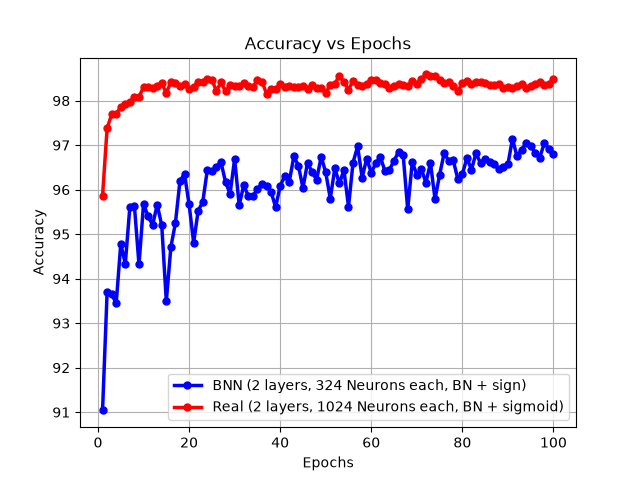
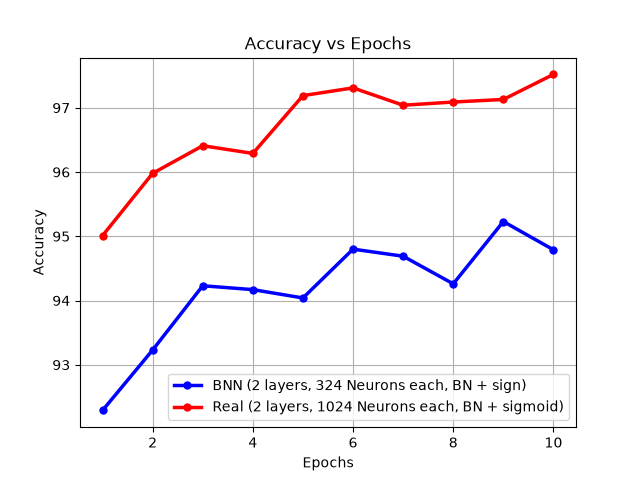
Add testing dataset loading and update training parameters; implement batch normalization in new PyTorch models

diff --git a/Real_weighted_model_pytorch.py b/Real_weighted_model_pytorch.py
@@ -1,0 +1,152 @@
+import numpy as np
+import torch
+
+# torch.set_grad_enabled(False)
+device = "cuda" if torch.cuda.is_available() else "cpu"
+
+def sigmoid(z):
+    return torch.sigmoid(z)
+
+def derivative_sigmoid(z):
+    return sigmoid(z) * (1 - sigmoid(z))
+
+def softmax(z):
+    exp_z = torch.exp(z - torch.max(z, dim=0, keepdim=True)[0])  # for numerical stability
+    return exp_z / torch.sum(exp_z, dim=0, keepdim=True)
+
+def batchnorm(x, gamma, beta, running_mean, running_var, training=True, momentum=0.9, eps=1e-5):
+    mu = torch.mean(x, dim=1, keepdim=True)
+    var = torch.var(x, dim=1, keepdim=True, unbiased=False)
+    if training:
+        x_hat = (x - mu) / torch.sqrt(var + eps)
+        running_mean = momentum * running_mean + (1 - momentum) * mu
+        running_var = momentum * running_var + (1 - momentum) * var
+    else:
+        x_hat = (x - running_mean) / torch.sqrt(running_var + eps)
+    cache = (x_hat, gamma, beta, mu, var, eps)
+    return gamma * x_hat + beta, cache, running_mean, running_var
+
+d, n, k = 784, 1024, 10
+layer_sizes = [d, n, n, k]
+L = len(layer_sizes) - 1
+B = 128
+weights, biases = [], []
+for i in range(L):
+    weights.append(torch.randn(layer_sizes[i], layer_sizes[i+1], device=device) / np.sqrt(layer_sizes[i]))
+    biases.append(torch.randn(layer_sizes[i+1], 1, device=device) / np.sqrt(layer_sizes[i]))
+
+# Initialize batch normalization parameters
+gamma = [torch.ones((layer_sizes[i+1], 1), device=device) for i in range(L-1)]
+beta = [torch.zeros((layer_sizes[i+1], 1), device=device) for i in range(L-1)]
+running_means = [torch.zeros((layer_sizes[i+1], 1), device=device) for i in range(L-1)]
+running_vars = [torch.ones((layer_sizes[i+1], 1), device=device) for i in range(L-1)]
+
+def feedforward(W, x, b, gamma, beta, training=True):
+    h = [x]
+    a = []
+    caches = []
+    for i in range(L):
+        a.append(W[i].T @ h[-1] + b[i])
+        if i == L - 1:
+            h.append(softmax(a[-1]))
+        else:
+            h_i, cache, running_means[i], running_vars[i] = batchnorm(a[-1], gamma[i], beta[i], running_means[i], running_vars[i], training)
+            h.append(sigmoid(h_i))
+            caches.append(cache)
+    return h, a, caches
+
+def backpropagation(W, h, y, gamma, beta, caches, eps=1e-5):
+    batch_size = h[0].shape[1]
+    grad_a = [h[-1] - y]
+    grad_W = [(h[-2] @ grad_a[-1].T) / batch_size]
+    grad_b = [torch.mean(grad_a[-1], dim=1, keepdim=True)]
+    grad_gamma = []
+    grad_beta = []
+    for i in range(L-2, -1, -1):
+        G = (W[i+1] @ grad_a[-1]) * h[i+1] * (1 - h[i+1])  
+        Q = G * gamma[i] 
+        cache = caches[i]
+        a_hat = cache[0]
+        var = cache[4]
+        grad_gamma.append(torch.sum(G * a_hat, dim=1, keepdim=True))
+        grad_beta.append(torch.sum(G, dim=1, keepdim=True))
+        grad_a.append((Q - torch.mean(Q, dim=1, keepdim=True) - a_hat * torch.mean(Q * a_hat, dim=1, keepdim=True)) / torch.sqrt(var + eps))
+        grad_W.append((h[i] @ grad_a[-1].T) / batch_size)
+        grad_b.append(torch.mean(grad_a[-1], dim=1, keepdim=True))
+    grad_W.reverse()
+    grad_a.reverse()
+    grad_b.reverse()
+    grad_gamma.reverse()
+    grad_beta.reverse()
+    return grad_W, grad_b, grad_gamma, grad_beta
+
+# # MNIST Dataset
+# data = idx2np.convert_from_file(r'/home/saurav/edward/ML/MNIST/train-images.idx3-ubyte')
+# data = data/255
+# X = torch.tensor(data.reshape(60000,784).T, dtype=torch.float32, device=device)
+# labels = idx2np.convert_from_file(r'/home/saurav/edward/ML/MNIST/train-labels.idx1-ubyte')
+# Y = torch.tensor(np.eye(10)[labels].T, dtype=torch.float32, device=device)
+# torch.save(X, 'train_images.pt')
+# torch.save(Y, 'train_labels.pt')
+X = torch.load('train_images.pt', map_location=device)
+Y = torch.load('train_labels.pt', map_location=device)
+
+# data_t = idx2np.convert_from_file(r'/home/saurav/edward/ML/MNIST/t10k-images.idx3-ubyte')
+# data_t = data_t/255
+# X_t = torch.tensor(data_t.reshape(10000,784).T, dtype=torch.float32, device=device)
+# labels_t = idx2np.convert_from_file(r'/home/saurav/edward/ML/MNIST/t10k-labels.idx1-ubyte')
+# Y_t = torch.tensor(np.eye(10)[labels_t].T, dtype=torch.float32, device=device)
+# torch.save(X_t, 'test_images.pt')
+# torch.save(Y_t, 'test_labels.pt')
+X_t = torch.load('test_images.pt', map_location=device)
+Y_t = torch.load('test_labels.pt', map_location=device)
+
+eta = 0.7
+epochs = 10
+mem = 0.8
+v_W, v_b, v_gamma, v_beta = [torch.zeros_like(W, device=device) for W in weights], [torch.zeros_like(b, device=device) for b in biases], [torch.zeros_like(g, device=device) for g in gamma], [torch.zeros_like(b, device=device) for b in beta]
+accuracy_history = []
+
+for epoch in range(epochs):
+    perm = torch.randperm(X.shape[1], device=device)
+    for start in range(0, X.shape[1], B):
+        end = start + B
+        idx = perm[start:end]
+        lookahead_W = [W - mem * v for W, v in zip(weights, v_W)]
+        lookahead_b = [b - mem * v for b, v in zip(biases, v_b)]
+        lookahead_gamma = [g - mem * v for g, v in zip(gamma, v_gamma)]
+        lookahead_beta = [b - mem * v for b, v in zip(beta, v_beta)]
+        x_batch = X[:,idx]
+        y_batch = Y[:,idx]
+        h, a, caches = feedforward(lookahead_W, x_batch, lookahead_b, lookahead_gamma, lookahead_beta, training=True)
+        
+        grad_W, grad_b, grad_gamma, grad_beta = backpropagation(lookahead_W, h, y_batch, lookahead_gamma, lookahead_beta, caches)
+        for i in range(L):
+            v_W[i] = mem * v_W[i] + eta * grad_W[i]
+            v_b[i] = mem * v_b[i] + eta * grad_b[i]
+            weights[i] -= v_W[i]
+            biases[i] -= v_b[i]
+            if i < L-1:
+                v_gamma[i] = mem * v_gamma[i] + eta * grad_gamma[i]
+                v_beta[i] = mem * v_beta[i] + eta * grad_beta[i]
+                gamma[i] -= v_gamma[i]
+                beta[i] -= v_beta[i]
+
+    # output = feedforward(weights, X, biases, gamma, beta, training=False)[0][-1]
+    # pred = np.argmax(output, axis=0)
+    # true = np.argmax(Y, axis=0)
+    # accuracy_train = np.mean(pred == true)
+
+    output = feedforward(weights, X_t, biases, gamma, beta, training=False)[0][-1]
+    pred = torch.argmax(output, dim=0)
+    true = torch.argmax(Y_t, dim=0)
+    accuracy_test = (pred == true).float().mean().item()
+    accuracy_history.append(accuracy_test)
+
+    print(
+        f'Epochs:{epoch+1}/{epochs} | '
+        f'Testing Accuracy: {accuracy_test * 100:.4f}')
+    #     f'Training Accuracy: {accuracy_train * 100:.4f}'
+    # )
+
+np.save("Real_weighted_model_accuracy.npy", np.array(accuracy_history))

diff --git a/BNN_pytorch.py b/BNN_pytorch.py
@@ -1,0 +1,149 @@
+import numpy as np
+import torch
+
+device = "cuda" if torch.cuda.is_available() else "cpu"
+
+def sigmoid(z):
+    return torch.sigmoid(z)
+
+def derivative_sigmoid(z):
+    return sigmoid(z) * (1 - sigmoid(z))
+
+def softmax(z):
+    exp_z = torch.exp(z - torch.max(z, dim=0, keepdim=True)[0])  # for numerical stability
+    return exp_z / torch.sum(exp_z, dim=0, keepdim=True)
+
+def binarize(x):
+    return torch.where(x >= 0, torch.ones_like(x), -torch.ones_like(x))
+
+def batchnorm(x, gamma, beta, running_mean, running_var, training=True, momentum=0.9, eps=1e-5):
+    mu = torch.mean(x, dim=1, keepdim=True)
+    var = torch.var(x, dim=1, keepdim=True, unbiased=False)
+    if training:
+        x_hat = (x - mu) / torch.sqrt(var + eps)
+        # Update running statistics
+        running_mean = momentum * running_mean + (1 - momentum) * mu
+        running_var = momentum * running_var + (1 - momentum) * var
+    else:
+        x_hat = (x - running_mean) / torch.sqrt(running_var + eps)
+    cache = (x_hat, gamma, beta, mu, var, eps)
+    return gamma * x_hat + beta, cache, running_mean, running_var
+
+d, n, k = 784, 324, 10
+layer_sizes = [d, n, n, k]
+B = 128
+L = len(layer_sizes) - 1
+weights, biases, gamma, beta, running_means, running_vars = [], [], [], [], [], []
+for i in range(L):
+    weights.append(torch.randn(layer_sizes[i], layer_sizes[i+1], device=device) * np.sqrt(2/(layer_sizes[i] + layer_sizes[i+1])))
+    biases.append(torch.randn(layer_sizes[i+1], 1, device=device) * np.sqrt(2/(layer_sizes[i] + layer_sizes[i+1])))
+
+for i in range(L-1):
+    gamma.append(torch.ones((layer_sizes[i+1], 1), device=device))
+    beta.append(torch.zeros((layer_sizes[i+1], 1), device=device))
+    running_means.append(torch.zeros((layer_sizes[i+1], 1), device=device))
+    running_vars.append(torch.ones((layer_sizes[i+1], 1), device=device))
+
+def feedforward(W, x, b, gamma, beta, training=True):
+    h = [x]
+    a = []
+    caches = []
+    bn_outputs = []
+    for i in range(L):
+        Wb = binarize(W[i])
+        a.append(Wb.T @ h[-1] + b[i])
+        if i == L - 1:
+            h.append(softmax(a[-1]))
+        else:
+            h_i, cache, running_means[i], running_vars[i] = batchnorm(a[-1], gamma[i], beta[i], running_means[i], running_vars[i], training=training)
+            caches.append(cache)
+            bn_outputs.append(h_i)
+            h.append(binarize(h_i))
+    return h, a, caches, bn_outputs
+
+def backpropagation(W, h, y, gamma, beta, caches, bn_outputs, eps=1e-5):
+    batch_size = h[0].shape[1]
+    grad_a = [h[-1] - y]
+    grad_gamma = []
+    grad_beta = []
+    grad_W = [(h[-2] @ grad_a[-1].T) / batch_size]
+    grad_b = [torch.sum(grad_a[-1], dim=1, keepdim=True) / batch_size]
+    for i in range(L-2, -1, -1):
+        Wb_next = binarize(W[i+1])
+        G = (Wb_next @ grad_a[-1])
+        ste_mask = (torch.abs(bn_outputs[i]) <= 1).float()
+        # ste_mask = torch.ones_like(bn_outputs[i])
+        G *= ste_mask
+        Q = G * gamma[i]
+        cache = caches[i]
+        a_hat = cache[0]
+        var = cache[4]
+        grad_gamma.append(torch.sum(G * a_hat, dim=1, keepdim=True) / batch_size)
+        grad_beta.append(torch.sum(G, dim=1, keepdim=True) / batch_size)
+        grad_a.append((Q - torch.mean(Q, dim=1, keepdim=True) - a_hat * torch.mean(Q * a_hat, dim=1, keepdim=True)) / torch.sqrt(var + eps))
+        grad_W.append((h[i] @ grad_a[-1].T) / batch_size)
+        grad_b.append(torch.sum(grad_a[-1], dim=1, keepdim=True) / batch_size)
+    grad_W.reverse()
+    grad_b.reverse()
+    grad_gamma.reverse()
+    grad_beta.reverse()
+    return grad_W, grad_b, grad_gamma, grad_beta
+
+# MNIST Dataset
+X = torch.load('train_images.pt', map_location=device)
+Y = torch.load('train_labels.pt', map_location=device)
+
+# Testing dataset
+X_t = torch.load('test_images.pt', map_location=device)
+Y_t = torch.load('test_labels.pt', map_location=device)
+
+eta = 0.7
+decay = 0.95
+mem = 0.8
+epochs = 10
+v_W, v_b, v_gamma, v_beta = [torch.zeros_like(w) for w in weights], [torch.zeros_like(b) for b in biases], [torch.zeros_like(g) for g in gamma], [torch.zeros_like(b) for b in beta]
+accuracy_history = []
+
+for epoch in range(epochs):
+    perm = torch.randperm(X.shape[1])
+    for start in range(0, X.shape[1], B):
+        end = start + B
+        idx = perm[start:end]
+        lookahead_W = [w - mem * v for w, v in zip(weights, v_W)]
+        lookahead_b = [b - mem * v for b, v in zip(biases, v_b)]
+        lookahead_gamma = [g - mem * v for g, v in zip(gamma, v_gamma)]
+        lookahead_beta = [b - mem * v for b, v in zip(beta, v_beta)]
+        x_batch = X[:,idx]
+        y_batch = Y[:,idx]
+        h, a, caches, bn_outputs = feedforward(lookahead_W, x_batch, lookahead_b, lookahead_gamma, lookahead_beta)
+        grad_W, grad_b, grad_gamma, grad_beta = backpropagation(lookahead_W, h, y_batch, lookahead_gamma, lookahead_beta, caches, bn_outputs)
+        for i in range(L):
+            v_W[i] = mem * v_W[i] + eta * grad_W[i]
+            v_b[i] = mem * v_b[i] + eta * grad_b[i]
+            weights[i] -= v_W[i]
+            biases[i] -= v_b[i]
+            weights[i] = torch.clamp(weights[i], -1, 1)
+            if i < L - 1:
+                v_gamma[i] = mem * v_gamma[i] + eta * grad_gamma[i]
+                v_beta[i] = mem * v_beta[i] + eta * grad_beta[i]
+                gamma[i] -= v_gamma[i]
+                beta[i] -= v_beta[i]
+
+    # output = feedforward(weights, X, biases, gamma, beta, training=False)[0][-1]
+    # pred = np.argmax(output, axis=0)
+    # true = np.argmax(Y, axis=0)
+    # accuracy_train = np.mean(pred == true)
+
+    output = feedforward(weights, X_t, biases, gamma, beta, training=False)[0][-1]
+    pred = torch.argmax(output, dim=0)
+    true = torch.argmax(Y_t, dim=0)
+    accuracy_test = (pred == true).float().mean().item()
+    accuracy_history.append(accuracy_test)
+
+    print(
+        f'Epochs:{epoch+1}/{epochs} | '
+        f'Testing Accuracy: {accuracy_test * 100:.4f}')
+    #     f'Training Accuracy: {accuracy_train * 100:.4f}'
+    # )
+
+np.save("BNN_accuracy.npy", np.array(accuracy_history))

diff --git a/Mini_batch_Grad_Descent_with_NAG_with_BN.py b/Mini_batch_Grad_Descent_with_NAG_with_BN.py
@@ -125,8 +125,14 @@ X = data.reshape(60000,784).T
 labels = idx2np.convert_from_file(r'/home/saurav/edward/ML/MNIST/train-labels.idx1-ubyte')
 Y = np.eye(10)[labels].T
 
+data_t = idx2np.convert_from_file(r'/home/saurav/edward/ML/MNIST/t10k-images.idx3-ubyte')
+data_t = data_t/255
+X_t = data_t.reshape(10000,784).T
+labels_t = idx2np.convert_from_file(r'/home/saurav/edward/ML/MNIST/t10k-labels.idx1-ubyte')
+Y_t = np.eye(10)[labels_t].T
+
 eta = 0.7
-epochs = 100
+epochs = 10
 mem = 0.8
 v_W, v_b, v_gamma, v_beta = [np.zeros_like(W) for W in weights], [np.zeros_like(b) for b in biases], [np.zeros_like(g) for g in gamma], [np.zeros_like(b) for b in beta]
 accuracy_history = []
@@ -154,19 +160,14 @@ for epoch in range(epochs):
             if i < L-1:
                 v_gamma[i] = mem * v_gamma[i] + eta * grad_gamma[i]
                 v_beta[i] = mem * v_beta[i] + eta * grad_beta[i]
-                gamma[i] -= grad_gamma[i]
-                beta[i] -= grad_beta[i]
-    
+                gamma[i] -= v_gamma[i]
+                beta[i] -= v_beta[i]
+
     # output = feedforward(weights, X, biases, gamma, beta, training=False)[0][-1]
     # pred = np.argmax(output, axis=0)
     # true = np.argmax(Y, axis=0)
     # accuracy_train = np.mean(pred == true)
 
-    data_t = idx2np.convert_from_file(r'/home/saurav/edward/ML/MNIST/t10k-images.idx3-ubyte')
-    data_t = data_t/255
-    X_t = data_t.reshape(10000,784).T
-    labels_t = idx2np.convert_from_file(r'/home/saurav/edward/ML/MNIST/t10k-labels.idx1-ubyte')
-    Y_t = np.eye(10)[labels_t].T
     output = feedforward(weights, X_t, biases, gamma, beta, training=False)[0][-1]
     pred = np.argmax(output, axis=0)
     true = np.argmax(Y_t, axis=0)

diff --git a/BNN.py b/BNN.py
@@ -154,10 +154,17 @@ X = data.reshape(60000,784).T
 labels = idx2np.convert_from_file(r'/home/saurav/edward/ML/MNIST/train-labels.idx1-ubyte')
 Y = np.eye(10)[labels].T
 
+# Testing dataset
+data_t = idx2np.convert_from_file(r'/home/saurav/edward/ML/MNIST/t10k-images.idx3-ubyte')
+data_t = data_t/255
+X_t = data_t.reshape(10000,784).T
+labels_t = idx2np.convert_from_file(r'/home/saurav/edward/ML/MNIST/t10k-labels.idx1-ubyte')
+Y_t = np.eye(10)[labels_t].T
+
 eta = 0.7
 decay = 0.95
 mem = 0.8
-epochs = 100
+epochs = 10
 v_W, v_b, v_gamma, v_beta = [np.zeros_like(w) for w in weights], [np.zeros_like(b) for b in biases], [np.zeros_like(g) for g in gamma], [np.zeros_like(b) for b in beta]
 accuracy_history = []
 
@@ -192,11 +199,6 @@ for epoch in range(epochs):
     # true = np.argmax(Y, axis=0)
     # accuracy_train = np.mean(pred == true)
 
-    data_t = idx2np.convert_from_file(r'/home/saurav/edward/ML/MNIST/t10k-images.idx3-ubyte')
-    data_t = data_t/255
-    X_t = data_t.reshape(10000,784).T
-    labels_t = idx2np.convert_from_file(r'/home/saurav/edward/ML/MNIST/t10k-labels.idx1-ubyte')
-    Y_t = np.eye(10)[labels_t].T
     output = feedforward(weights, X_t, biases, gamma, beta, training=False)[0][-1]
     pred = np.argmax(output, axis=0)
     true = np.argmax(Y_t, axis=0)